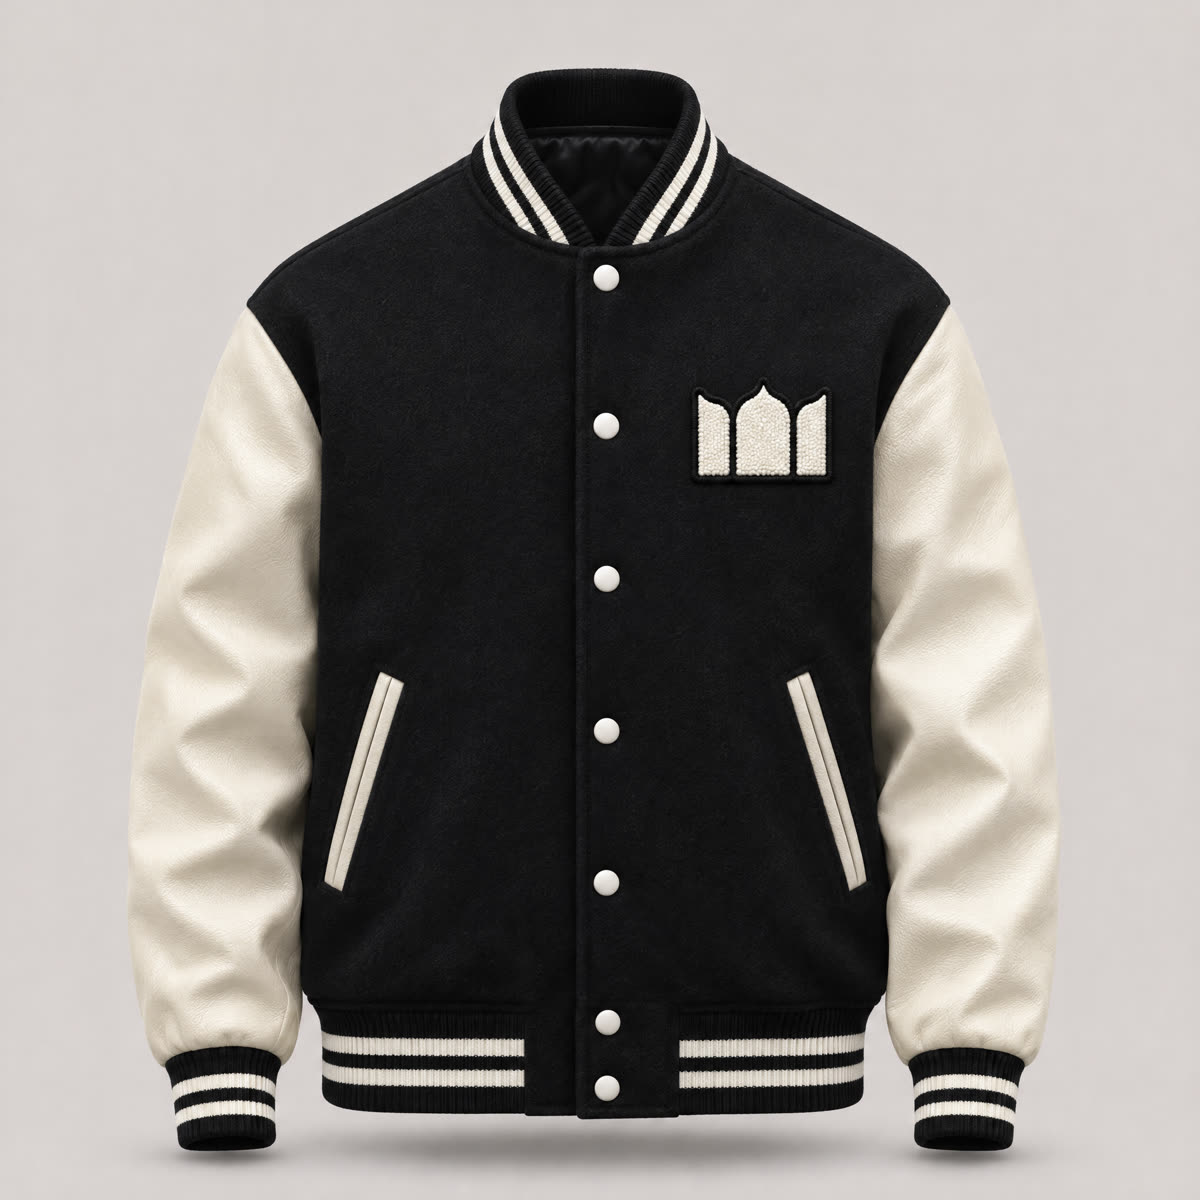
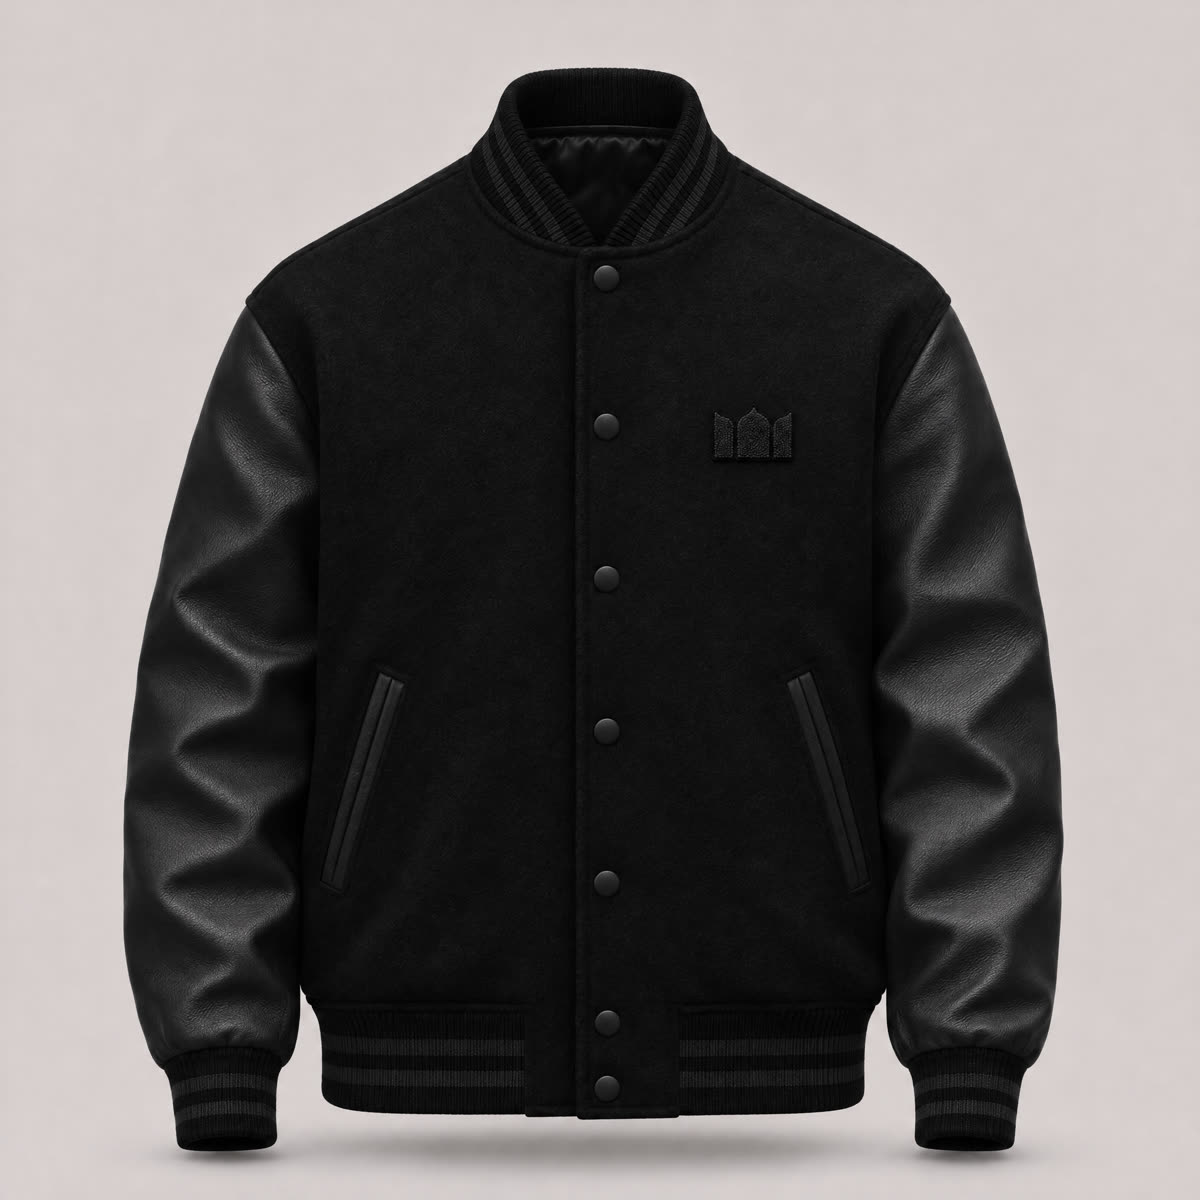
Store: all-black varsity with a small tonal mark and Triptych Studios in chenille script on the back; Front / Back switch on the card
Claude-Session: https://claude.ai/code/session_01JQmniWs6J3wVj7S6ETg86g

diff --git a/src/components/store/StoreClient.tsx b/src/components/store/StoreClient.tsx
@@ -19,6 +19,8 @@ export default function StoreClient() {
   const [sizes, setSizes] = useState<Record<string, string>>({});
   const [bag, setBag] = useState<Line[]>([]);
   const [open, setOpen] = useState(false);
+  // products with a back photo: which side each card shows
+  const [back, setBack] = useState<Record<string, boolean>>({});
   const [loaded, setLoaded] = useState(false);
 
   // Hydrate the bag after mount (server HTML is the empty state) — on the
@@ -106,14 +108,44 @@ export default function StoreClient() {
             <article key={p.id} className="group flex flex-col overflow-hidden rounded-[20px] bg-surface">
               <div className="relative aspect-square w-full overflow-hidden bg-[#dcd7d5]">
                 {p.image ? (
-                  // eslint-disable-next-line @next/next/no-img-element
-                  <img
-                    src={p.image}
-                    alt={p.name}
-                    loading="lazy"
-                    decoding="async"
-                    className="absolute inset-0 h-full w-full object-cover transition-transform duration-700 ease-out group-hover:scale-[1.04]"
-                  />
+                  <>
+                    {/* eslint-disable-next-line @next/next/no-img-element */}
+                    <img
+                      src={p.image}
+                      alt={p.name}
+                      loading="lazy"
+                      decoding="async"
+                      className={`absolute inset-0 h-full w-full object-cover transition duration-700 ease-out group-hover:scale-[1.04] ${p.imageBack && back[p.id] ? "opacity-0" : ""}`}
+                    />
+                    {p.imageBack && (
+                      <>
+                        {/* eslint-disable-next-line @next/next/no-img-element */}
+                        <img
+                          src={p.imageBack}
+                          alt={`${p.name}, back`}
+                          loading="lazy"
+                          decoding="async"
+                          className={`absolute inset-0 h-full w-full object-cover transition duration-700 ease-out group-hover:scale-[1.04] ${back[p.id] ? "" : "opacity-0"}`}
+                        />
+                        <div className="absolute right-4 top-4 flex rounded-full bg-white/90 p-0.5 text-[11px] font-medium text-black">
+                          {(["Front", "Back"] as const).map((side) => {
+                            const on = (side === "Back") === !!back[p.id];
+                            return (
+                              <button
+                                key={side}
+                                type="button"
+                                aria-pressed={on}
+                                onClick={() => setBack((b) => ({ ...b, [p.id]: side === "Back" }))}
+                                className={`rounded-full px-2.5 py-1 transition-colors ${on ? "bg-black text-white" : "text-black/60 hover:text-black"}`}
+                              >
+                                {side}
+                              </button>
+                            );
+                          })}
+                        </div>
+                      </>
+                    )}
+                  </>
                 ) : (
                   <div
                     className="absolute inset-0"

diff --git a/src/lib/store.ts b/src/lib/store.ts
@@ -17,6 +17,8 @@ export type Product = {
   hue: number;
   /** EDIT: product photo, e.g. "/store/hoodie-black.jpg". */
   image?: string;
+  /** EDIT: optional back view — the card gets a Front / Back switch. */
+  imageBack?: string;
   sizes?: string[];
   badge?: string;
 };
@@ -39,7 +41,7 @@ const APPAREL = ["S", "M", "L", "XL", "2XL"];
 export const products: Product[] = [
   { id: "windbreaker-black", name: "Crew Windbreaker", kind: "Apparel", shape: "hoodie", price: 12000, image: "/store/windbreaker-black.jpg", blurb: "Water-resistant black nylon shell, full zip, packable hood. Mark printed on the chest.", hue: 220, sizes: APPAREL },
   { id: "hoodie-black", name: "Heavyweight Hoodie", kind: "Apparel", shape: "hoodie", price: 11000, image: "/store/hoodie-black.jpg", blurb: "500gsm brushed fleece, properly thick. Boxy fit, double-layer hood, embroidered mark.", hue: 262, sizes: APPAREL },
-  { id: "varsity", name: "Studio Varsity", kind: "Apparel", shape: "hoodie", price: 22000, image: "/store/varsity.jpg", blurb: "Heavy black wool body, cream leather sleeves, striped rib trims and a chenille mark on the chest.", hue: 30, sizes: APPAREL, badge: "New" },
+  { id: "varsity", name: "Studio Varsity", kind: "Apparel", shape: "hoodie", price: 22000, image: "/store/varsity.jpg", imageBack: "/store/varsity-back.jpg", blurb: "All black: heavy wool body, leather sleeves, tonal striped trims, a small chenille mark on the chest and Triptych Studios in chenille script across the back.", hue: 30, sizes: APPAREL, badge: "New" },
 ];
 
 // The filter shows only the kinds that have products (and hides itself
